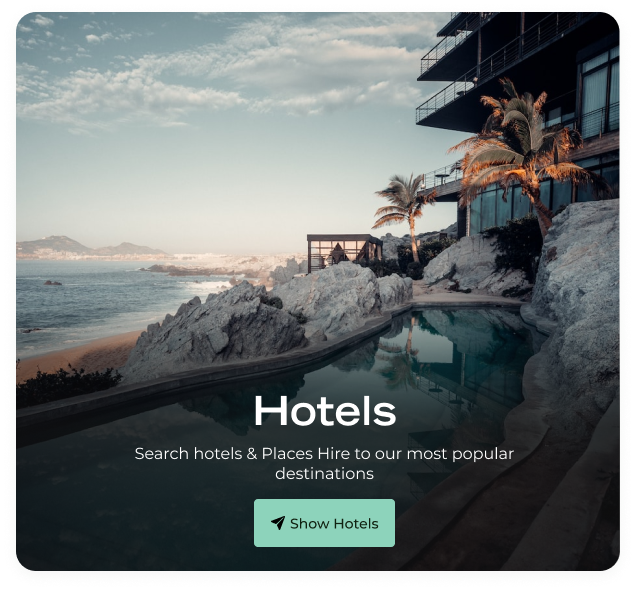
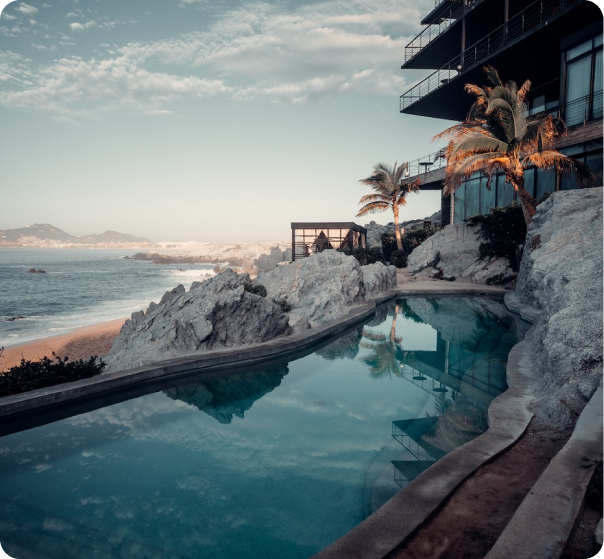
added flights component

diff --git a/src/Assets/css/Theme.module.css b/src/Assets/css/Theme.module.css
@@ -3,14 +3,14 @@
 }
 
 .buttonStyle {
-  padding: 10px 40px;
+  padding: 10px;
   border-radius: 5px;
   text-align: center;
   display: flex;
   align-items: center;
   justify-content: center;
   border: 1px solid transparent;
-  transition: all 0.3s;
+  transition: all 0.2s;
   background-color: var(--blackish-green-color);
   color: #ffff;
   font-weight: 500;
@@ -23,9 +23,114 @@
   border: 1px solid var(--blackish-green-color);
 }
 
+/* ------------ Primary Button ------------- */
+.buttonStyle {
+  display: inline-flex;
+  align-items: center;
+  justify-content: center;
+  min-width: 100px;
+  height: 50px;
+  border-radius: 8px;
+  font-weight: 600;
+  background-color: var(--white-color);
+  border: 1px solid var(--mint-green-color);
+  transition: all 0.2s ease;
+  user-select: none;
+  color: var(--blackish-green-color);
+  overflow: hidden;
+  box-shadow: 0px 4px 60px rgba(0, 0, 0, 0.08);
+}
+.buttonStyle > a {
+  display: flex;
+  justify-content: space-between;
+  align-items: center;
+  gap: 10px;
+  padding: 20px;
+  font-size: 16px;
+  color: var(--light-blue);
+  text-transform: capitalize;
+  font-weight: 600;
+  transition: all 0.2s ease;
+}
+.buttonStyle > a > svg {
+  width: 20px;
+  height: 20px;
+}
+.buttonStyle:hover {
+  border: unset;
+  background-color: var(--mint-green-color);
+}
+.buttonStyle:hover > a {
+  color: var(--white-color);
+}
+.buttonStyle:active {
+  scale: 1.05;
+}
+/* ------------ Secondary Button ------------- */
+.iconBtn {
+  background-color: var(--mint-green-color);
+  border: unset;
+  color: var(--blackish-green-color);
+}
+.iconBtn svg {
+transition: all 0.1s ease;
+}
+.iconBtn:hover {
+  color: var(--mint-green-color);
+  background-color: var(--white-color);
+  border: 1px var(--mint-green-color);
+}
+.iconBtn:hover > a {
+  color: var(--mint-green-color);
+}
+.iconBtn:hover svg {
+  color: var(--mint-green-color);
+}
+/* ------------ Borderless Button ------------- */
+.borderBtn {
+  border: unset;
+}
+/* ----------- Colored Button ------------ */
+.coloredBtn {
+  background-color: var(--blackish-green-color);
+  text-transform: capitalize;
+  border: 1px solid var(--blackish-green-color);
+  font-weight: 600;
+}
+.coloredBtn > a {
+  color: var(--white-color);
+}
+.coloredBtn:hover {
+  background-color: var(--white-color);
+  border: 1px solid var(--blackish-green-color);
+}
+.coloredBtn:hover > a {
+  color: var(--light-blue);
+}
+
+/* ------- Disabled Button ------- */
+.buttonStyleDisabled {
+  background-color: var(--disabled-btn-color);
+  border: unset;
+}
+.buttonStyleDisabled > a {
+  cursor: not-allowed;
+  background-color: var(--disabled-btn-color);
+  color: var(--disabled-btn-text-color);
+}
+.buttonStyleDisabled:hover {
+  background-color: var(--disabled-btn-color);
+}
+.buttonStyleDisabled:hover > a {
+  background-color: var(--disabled-btn-color);
+  color: var(--disabled-btn-text-color);
+}
+.buttonStyleDisabled:active {
+  scale: 1;
+}
+
 @media screen and (max-width: 768px) {
-    .container {
-      padding-inline: 15px;
-    }
+  .container {
+    padding-inline: 15px;
   }
-  
+}

diff --git a/src/Views/HomeView/Components/FlightandHotels/FlightandHotels.jsx b/src/Views/HomeView/Components/FlightandHotels/FlightandHotels.jsx
@@ -1,10 +1,35 @@
 import React from "react";
 
+// Components
+import CustomButton from "../../../../Components/CustomButton/CustomButton";
+
+// Libraries
+import { Container } from "@hybris-software/ui-kit";
+
 // Styles
 import Style from "./FlightandHotels.module.css";
 
 const FlightandHotels = () => {
-  return <div>FlightandHotels</div>;
+  return (
+    <Container>
+      <div className={Style.flightGrid}>
+        <div className={Style.flights}>
+          <h1>Flights</h1>
+          <h6>Search Flights & Places Hire to our most popular destinations</h6>
+          <CustomButton icon to="/">
+            Show Flights
+          </CustomButton>
+        </div>
+        <div className={Style.hotels}>
+          <h1>Hotels</h1>
+          <h6>Search hotels & Places Hire to our most popular destinations</h6>
+          <CustomButton icon to="/">
+            Show Hotels
+          </CustomButton>
+        </div>
+      </div>
+    </Container>
+  );
 };
 
 export default FlightandHotels;

diff --git a/src/Views/HomeView/Components/FlightandHotels/FlightandHotels.module.css b/src/Views/HomeView/Components/FlightandHotels/FlightandHotels.module.css
@@ -1,0 +1,48 @@
+.flightGrid {
+  display: grid;
+  gap: 25px;
+  grid-template-columns: 1fr 1fr;
+}
+
+.hotels {
+  background-image: url("../../../../Assets/images/hotelsBG.png");
+}
+.flights {
+  background-image: url("../../../../Assets/images/flightsBG.png");
+}
+
+.hotels:hover,
+.flights:hover {
+  box-shadow: rgba(0, 0, 0, 0.35) 0px 5px 15px;
+}
+
+.flights,
+.hotels {
+  background-position: center;
+  background-repeat: no-repeat;
+  background-size: cover;
+  filter: drop-shadow(0px 4px 16px rgba(17, 34, 17, 0.05));
+  width: 100%;
+  height: 550px;
+  border-radius: 20px;
+  padding: 25px;
+  color: #fff;
+  display: flex;
+  flex-direction: column;
+  text-align: center;
+  align-items: center;
+  justify-content: flex-end;
+}
+
+.flights h6,
+.hotels h6 {
+  margin-block: 8px 16px;
+  max-width: 430px;
+  margin-inline: auto;
+}
+
+@media screen and (max-width: 991px) {
+    .flightGrid{
+        grid-template-columns: 1fr;
+    }
+}

diff --git a/src/Components/CustomButton/CustomButton.jsx b/src/Components/CustomButton/CustomButton.jsx
@@ -1,0 +1,41 @@
+import React from "react";
+
+// Libraries
+import PropTypes from "prop-types";
+import { Link } from "react-router-dom";
+
+// Utilities
+import classNames from "../../utils/classNames";
+
+// Icons
+import { BsSendFill } from "react-icons/bs";
+
+// Components
+import { Button } from "@hybris-software/ui-kit";
+
+// Style
+import Theme from "../../Assets/css/Theme.module.css";
+
+const CustomButton = ({ children, baseClassName, to, ...props }) => (
+  <Button
+    className={classNames(
+      baseClassName,
+      props.border && Theme.borderBtn,
+      props.colored && Theme.coloredBtn,
+      props.icon && Theme.iconBtn
+    )}
+    {...props}
+  >
+    <Link className={props.linkClassName} to={to}>
+       {props.icon && <BsSendFill />}
+      {children}
+    </Link>
+  </Button>
+);
+
+// check props type
+CustomButton.propTypes = {
+  children: PropTypes.node.isRequired,
+};
+
+export default CustomButton;

diff --git a/src/Views/HomeView/HomeView.jsx b/src/Views/HomeView/HomeView.jsx
@@ -3,6 +3,8 @@ import React from "react";
 // Components
 import HeroSection from "./Components/HeroSection/HeroSection";
 import Plan from "./Components/Plan/Plan";
+import FlightandHotels from "./Components/FlightandHotels/FlightandHotels";
+import Reviews from "./Components/Reviews/Reviews";
 
 const HomeView = () => {
   return (
@@ -12,6 +14,12 @@ const HomeView = () => {
       </section>
       <section>
         <Plan />
+      </section>
+      <section>
+        <FlightandHotels />
+      </section>
+      <section>
+        <Reviews />
       </section>
     </>
   );

diff --git a/src/Components/DateRange/DateRange.jsx b/src/Components/DateRange/DateRange.jsx
@@ -41,7 +41,6 @@ const DateRange = ({ ...props }) => {
         <DateRangePicker
           onChange={(item) => {
             setState([item.selection]);
-            console.log(item.selection.endDate);
             if (item.selection) {
               setShow(false);
             }

diff --git a/src/Views/HomeView/Components/Plan/Plan.jsx b/src/Views/HomeView/Components/Plan/Plan.jsx
@@ -69,7 +69,6 @@ const Plan = () => {
 };
 
 const Card = ({ image, destination }) => {
-  console.log(image);
   return (
     <div className={Style.card}>
       <div
